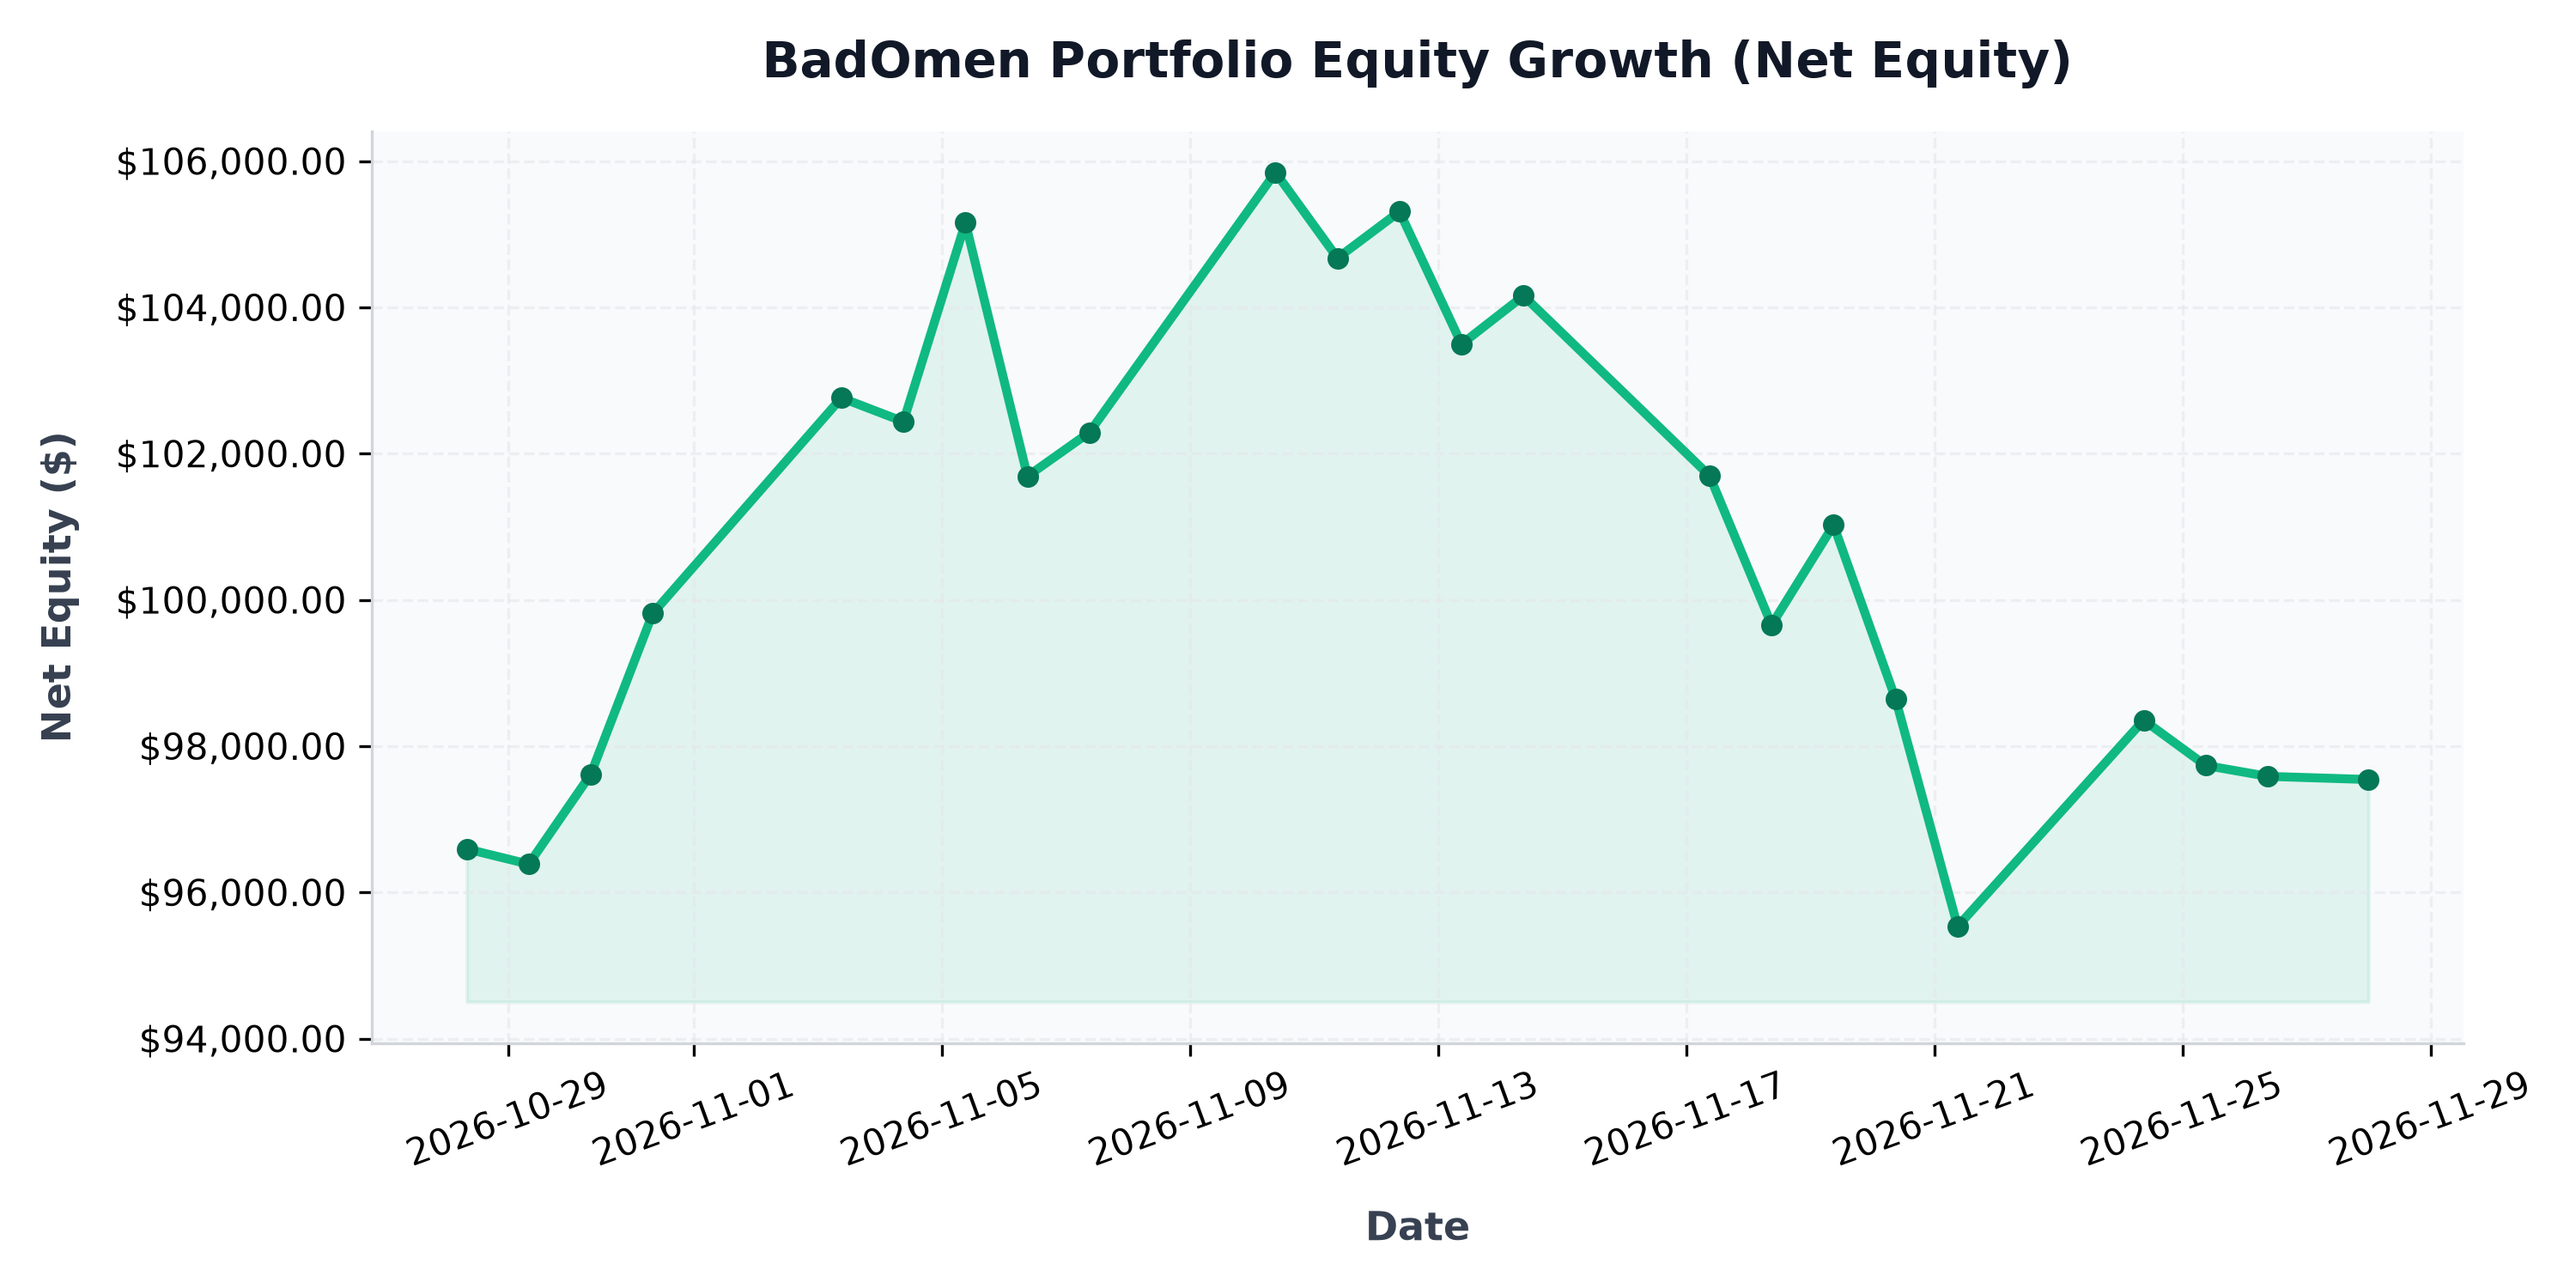
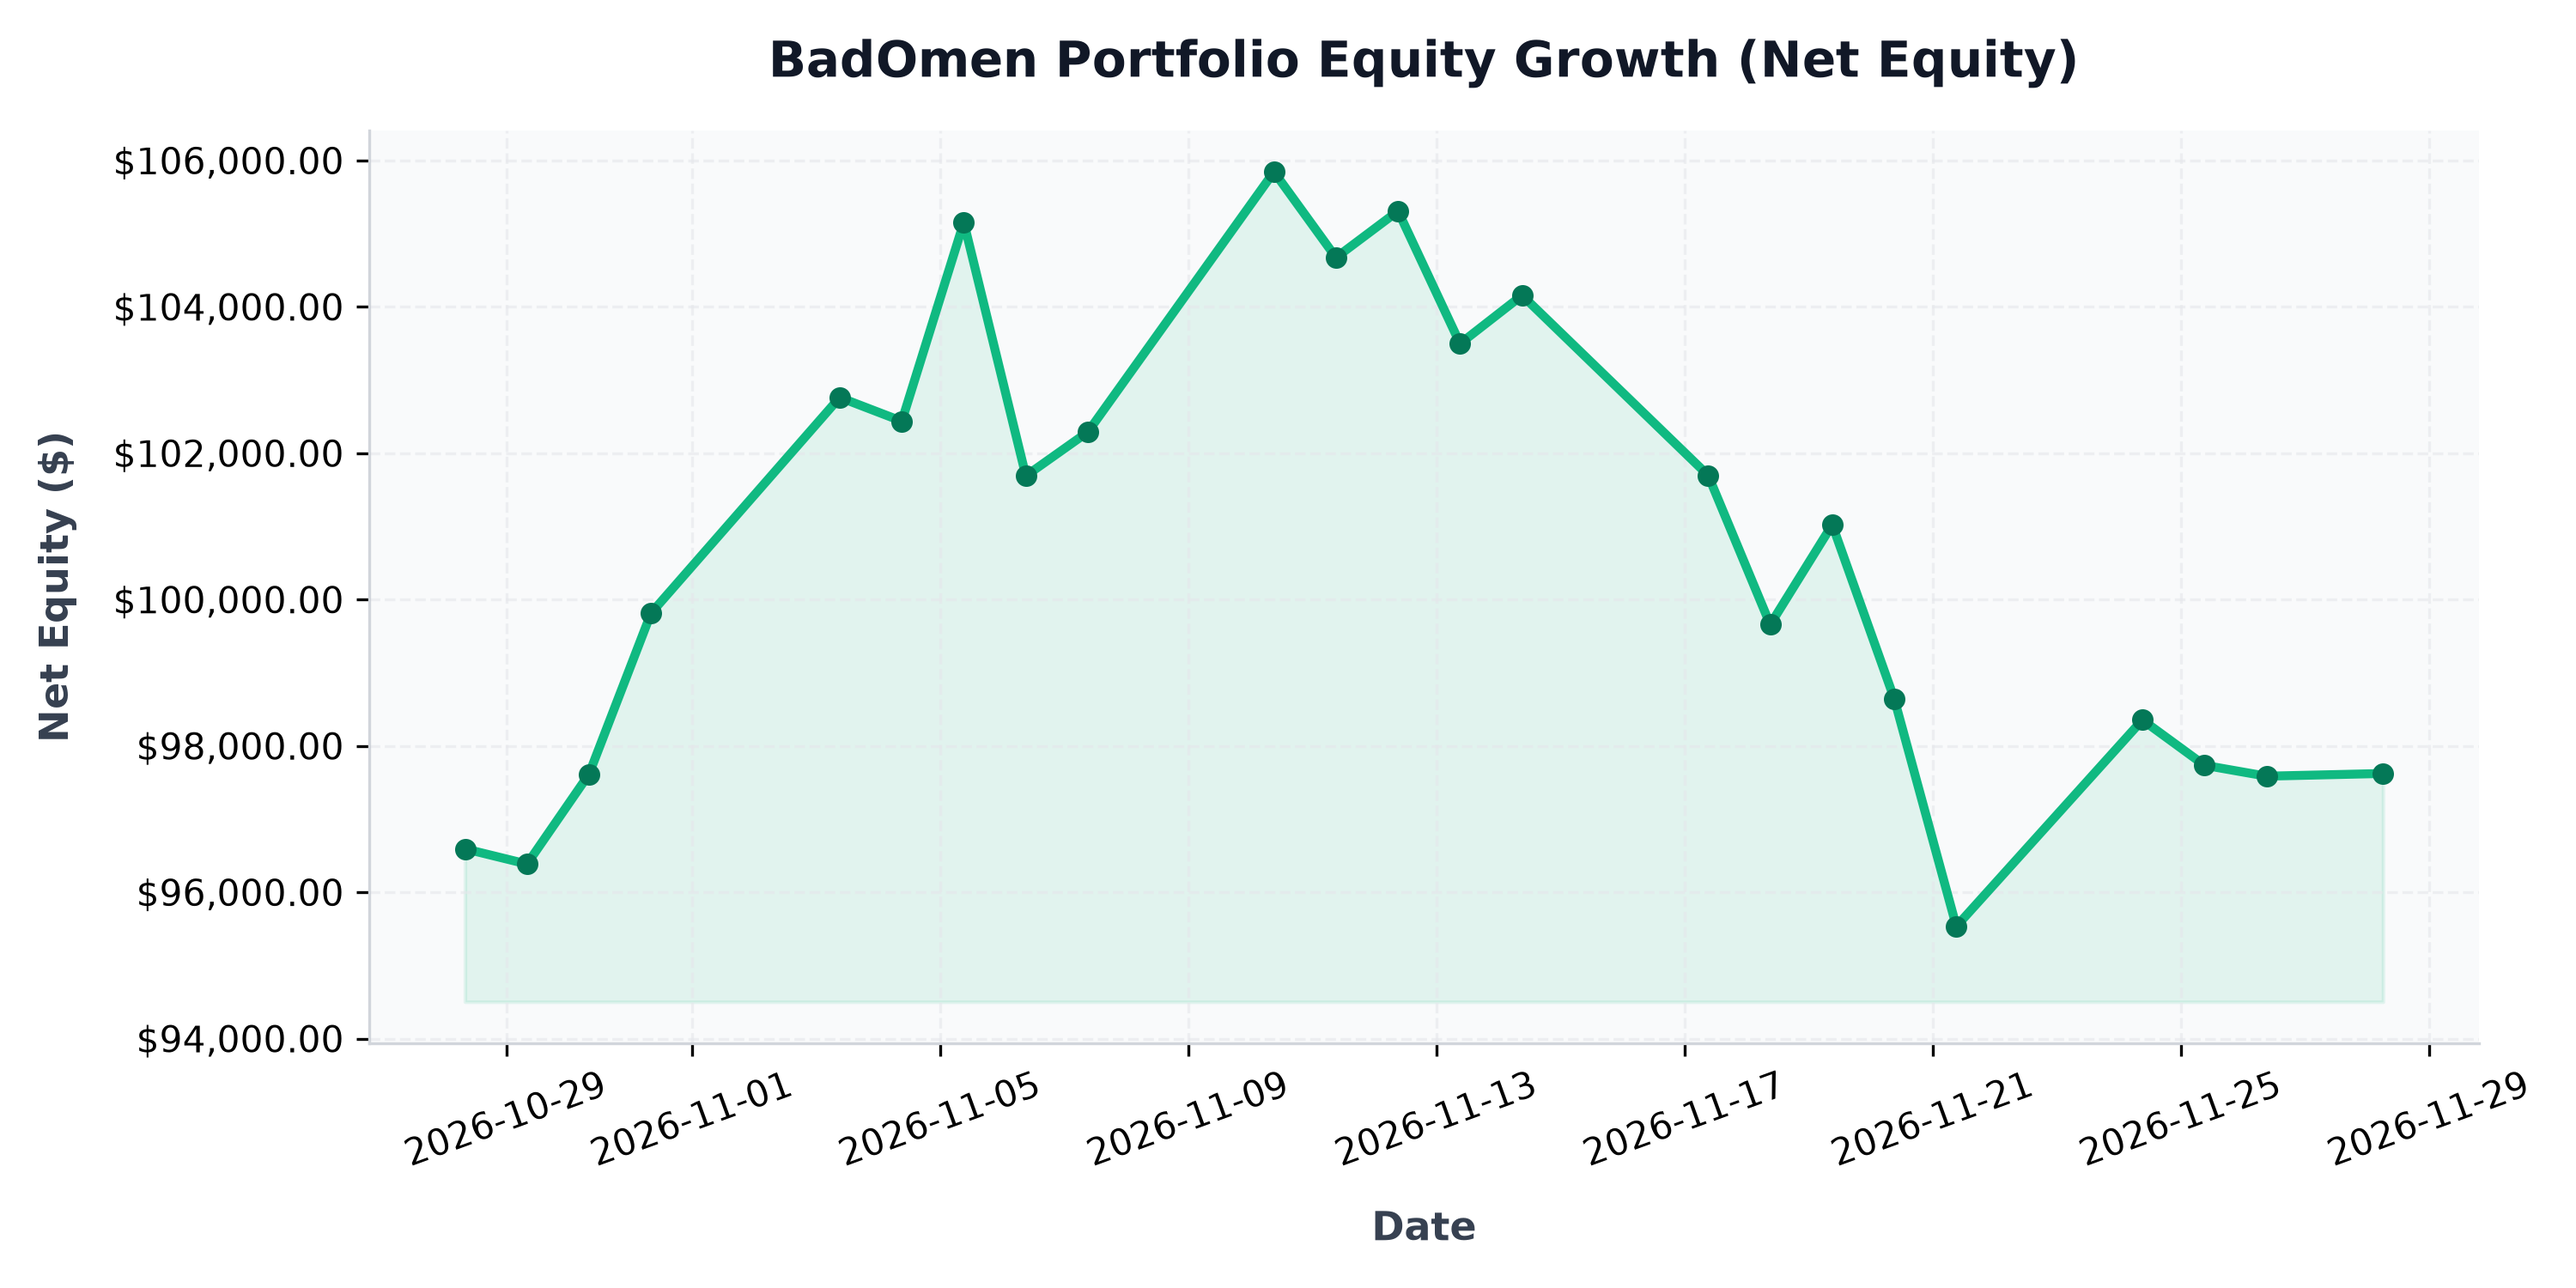
auto: daily portfolio status update - 2026-11-28 06:05:12

diff --git a/src/content/posts/portfolio-performance.md b/src/content/posts/portfolio-performance.md
@@ -1,6 +1,6 @@
 ---
 title: "BadOmen Algorithmic Portfolio Performance & PnL Report"
-pubDatetime: 2026-11-28T00:00:14.938451+08:00
+pubDatetime: 2026-11-28T06:05:11.946917+08:00
 description: "Live performance metrics, active holdings, and historic equity curve for the BadOmen automated paper trading portfolio."
 featured: true
 draft: false
@@ -16,11 +16,11 @@ Welcome to the live performance dashboard for **BadOmen**, our automated algorit
 ## 📊 Portfolio Summary
 | Performance Metric | Value | description |
 | :--- | :--- | :--- |
-| **Net Portfolio Equity** | **$97,542.95** | Total current liquidation value of cash and stock holdings |
-| **Total Unrealized P&L** | 🟢 **+$273.65** (+0.28%) | Total return of current open holdings |
-| **Cash Balance** | $76,780.59 | Idle reserve currency available for limit orders |
-| **Buying Power** | $336,879.88 | Margin-backed buying power for entry allocations |
-| **Report Updated** | `2026-11-28 00:00:14 (SGT)` | Timestamp of daily execution and sync run |
+| **Net Portfolio Equity** | **$97,623.19** | Total current liquidation value of cash and stock holdings |
+| **Total Unrealized P&L** | 🟢 **+$401.51** (+0.41%) | Total return of current open holdings |
+| **Cash Balance** | $90,350.13 | Idle reserve currency available for limit orders |
+| **Buying Power** | $353,388.02 | Margin-backed buying power for entry allocations |
+| **Report Updated** | `2026-11-28 06:05:11 (SGT)` | Timestamp of daily execution and sync run |
 
 ## 📈 Net Equity Growth Curve
 The chart below illustrates the historical performance of the account starting from our baseline capital funding of $100,000.00.
@@ -35,34 +35,30 @@ The chart below illustrates the exposure of our currently held active positions 
 ## 💼 Current Position Holdings
 | Ticker | Industry | Shares Owned | Average Entry Cost | Current Price | Unrealized P&L | Return (%) |
 | :--- | :--- | :--- | :--- | :--- | :--- | :--- |
-| **AMD** | Semiconductors | 7 | $414.33 | $415.00 | 🟢 +$4.71 | +0.16% |
-| **AN** | Auto & Truck Dealerships | 5 | $188.51 | $186.18 | 🔴 $-11.64 | -1.23% |
-| **BLBD** | Farm & Heavy Construction Machinery | 21 | $61.73 | $55.91 | 🔴 $-122.33 | -9.44% |
-| **CELH** | Beverages - Non-Alcoholic | 4 | $29.71 | $30.17 | 🟢 +$1.83 | +1.54% |
-| **CPRI** | Luxury Goods | 62 | $13.78 | $18.48 | 🟢 +$291.40 | +34.11% |
-| **GDS** | Information Technology Services | 4 | $32.77 | $13.16 | 🔴 $-78.42 | -59.83% |
-| **GOOGL** | Internet Content & Information | 11 | $276.39 | $272.77 | 🔴 $-39.81 | -1.31% |
-| **ITRI** | Scientific & Technical Instruments | 12 | $81.80 | $102.70 | 🟢 +$250.83 | +25.55% |
-| **LRCX** | Semiconductor Equipment & Materials | 7 | $204.67 | $188.37 | 🔴 $-114.11 | -7.96% |
-| **NESR** | Oil & Gas Equipment & Services | 4 | $28.74 | $19.91 | 🔴 $-35.32 | -30.72% |
-| **NU** | Banks - Regional | 6 | $11.60 | $13.24 | 🟢 +$9.88 | +14.19% |
-| **NVDA** | Semiconductors | 42 | $150.16 | $147.46 | 🔴 $-113.50 | -1.80% |
-| **PATH** | Software - Infrastructure | 4 | $10.25 | $12.77 | 🟢 +$10.08 | +24.59% |
-| **PYPL** | Credit Services | 2 | $56.05 | $59.41 | 🟢 +$6.72 | +6.00% |
-| **SMCI** | Computer Hardware | 3 | $29.25 | $23.58 | 🔴 $-17.01 | -19.39% |
-| **WEN** | Restaurants | 257 | $8.02 | $8.92 | 🟢 +$230.34 | +11.17% |
+| **AN** | Auto & Truck Dealerships | 5 | $188.51 | $186.73 | 🔴 $-8.89 | -0.94% |
+| **BLBD** | Farm & Heavy Construction Machinery | 14 | $61.73 | $56.98 | 🔴 $-66.50 | -7.70% |
+| **CELH** | Beverages - Non-Alcoholic | 3 | $29.71 | $30.21 | 🟢 +$1.49 | +1.67% |
+| **CPRI** | Luxury Goods | 42 | $13.78 | $18.40 | 🟢 +$194.04 | +33.53% |
+| **GDS** | Information Technology Services | 3 | $32.77 | $13.52 | 🔴 $-57.75 | -58.74% |
+| **ITRI** | Scientific & Technical Instruments | 12 | $81.80 | $103.08 | 🟢 +$255.36 | +26.02% |
+| **LRCX** | Semiconductor Equipment & Materials | 5 | $204.67 | $192.12 | 🔴 $-62.76 | -6.13% |
+| **NESR** | Oil & Gas Equipment & Services | 3 | $28.74 | $20.00 | 🔴 $-26.22 | -30.41% |
+| **PATH** | Software - Infrastructure | 3 | $10.25 | $12.65 | 🟢 +$7.20 | +23.41% |
+| **PYPL** | Credit Services | 1 | $56.05 | $58.87 | 🟢 +$2.82 | +5.03% |
+| **SMCI** | Computer Hardware | 2 | $29.25 | $23.71 | 🔴 $-11.08 | -18.94% |
+| **WEN** | Restaurants | 257 | $8.02 | $8.70 | 🟢 +$173.80 | +8.43% |
 
 ## 🔴 Recent Realized Trades
 | Ticker | Shares Sold | Entry Price | Exit Price | Strategy Trigger | Realized Return | Exit Date |
 | :--- | :--- | :--- | :--- | :--- | :--- | :--- |
-| **AVGO** | 11 | $285.30 | $283.27 | Exit Strategy (Growth Decel / SMA break) | 🔴 **$-22.30** (-0.71%) | 2026-11-26 |
-| **BLBD** | 10 | $61.73 | $54.52 | Exit Strategy (Growth Decel / SMA break) | 🔴 **$-72.10** (-11.68%) | 2026-11-26 |
-| **CELH** | 1 | $29.71 | $28.43 | Exit Strategy (Growth Decel / SMA break) | 🔴 **$-1.28** (-4.32%) | 2026-11-26 |
-| **CPRI** | 30 | $13.78 | $18.05 | Tier 1: Profit Lock (Up 30-50%) | 🟢 **+$+128.10** (++30.99%) | 2026-11-26 |
-| **GDS** | 1 | $32.77 | $12.42 | Exit Strategy (Growth Decel / SMA break) | 🔴 **$-20.35** (-62.10%) | 2026-11-26 |
-| **LRCX** | 3 | $204.66 | $172.94 | Exit Strategy (Growth Decel / SMA break) | 🔴 **$-95.17** (-15.50%) | 2026-11-26 |
-| **MRVL** | 77 | $118.39 | $119.75 | Exit Strategy (Growth Decel / SMA break) | 🟢 **+$+104.72** (++1.15%) | 2026-11-26 |
-| **NESR** | 2 | $28.74 | $18.35 | Exit Strategy (Growth Decel / SMA break) | 🔴 **$-20.78** (-36.15%) | 2026-11-26 |
-| **NU** | 2 | $11.60 | $12.04 | Exit Strategy (Growth Decel / SMA break) | 🟢 **+$+0.88** (++3.81%) | 2026-11-26 |
-| **ON** | 56 | $58.74 | $58.20 | Exit Strategy (Growth Decel / SMA break) | 🔴 **$-30.17** (-0.92%) | 2026-11-26 |
+| **AMD** | 7 | $414.33 | $417.67 | Exit Strategy (Growth Decel / SMA break) | 🟢 **+$+23.39** (++0.81%) | 2026-11-28 |
+| **BLBD** | 7 | $61.73 | $56.84 | Exit Strategy (Growth Decel / SMA break) | 🔴 **$-34.23** (-7.92%) | 2026-11-28 |
+| **CELH** | 1 | $29.71 | $30.11 | Exit Strategy (Growth Decel / SMA break) | 🟢 **+$+0.40** (++1.34%) | 2026-11-28 |
+| **CPRI** | 20 | $13.78 | $18.40 | Tier 1: Profit Lock (Up 30-50%) | 🟢 **+$+92.40** (++33.53%) | 2026-11-28 |
+| **GDS** | 1 | $32.77 | $13.53 | Exit Strategy (Growth Decel / SMA break) | 🔴 **$-19.24** (-58.71%) | 2026-11-28 |
+| **GOOGL** | 11 | $276.39 | $273.48 | Exit Strategy (Growth Decel / SMA break) | 🔴 **$-32.00** (-1.05%) | 2026-11-28 |
+| **LRCX** | 2 | $204.66 | $189.20 | Exit Strategy (Growth Decel / SMA break) | 🔴 **$-30.93** (-7.56%) | 2026-11-28 |
+| **NESR** | 1 | $28.74 | $19.83 | Exit Strategy (Growth Decel / SMA break) | 🔴 **$-8.91** (-31.00%) | 2026-11-28 |
+| **NU** | 6 | $11.60 | $13.12 | Exit Strategy (Growth Decel / SMA break) | 🟢 **+$+9.13** (++13.12%) | 2026-11-28 |
+| **NVDA** | 42 | $150.81 | $148.94 | Exit Strategy (Growth Decel / SMA break) | 🔴 **$-78.54** (-1.24%) | 2026-11-28 |
 
